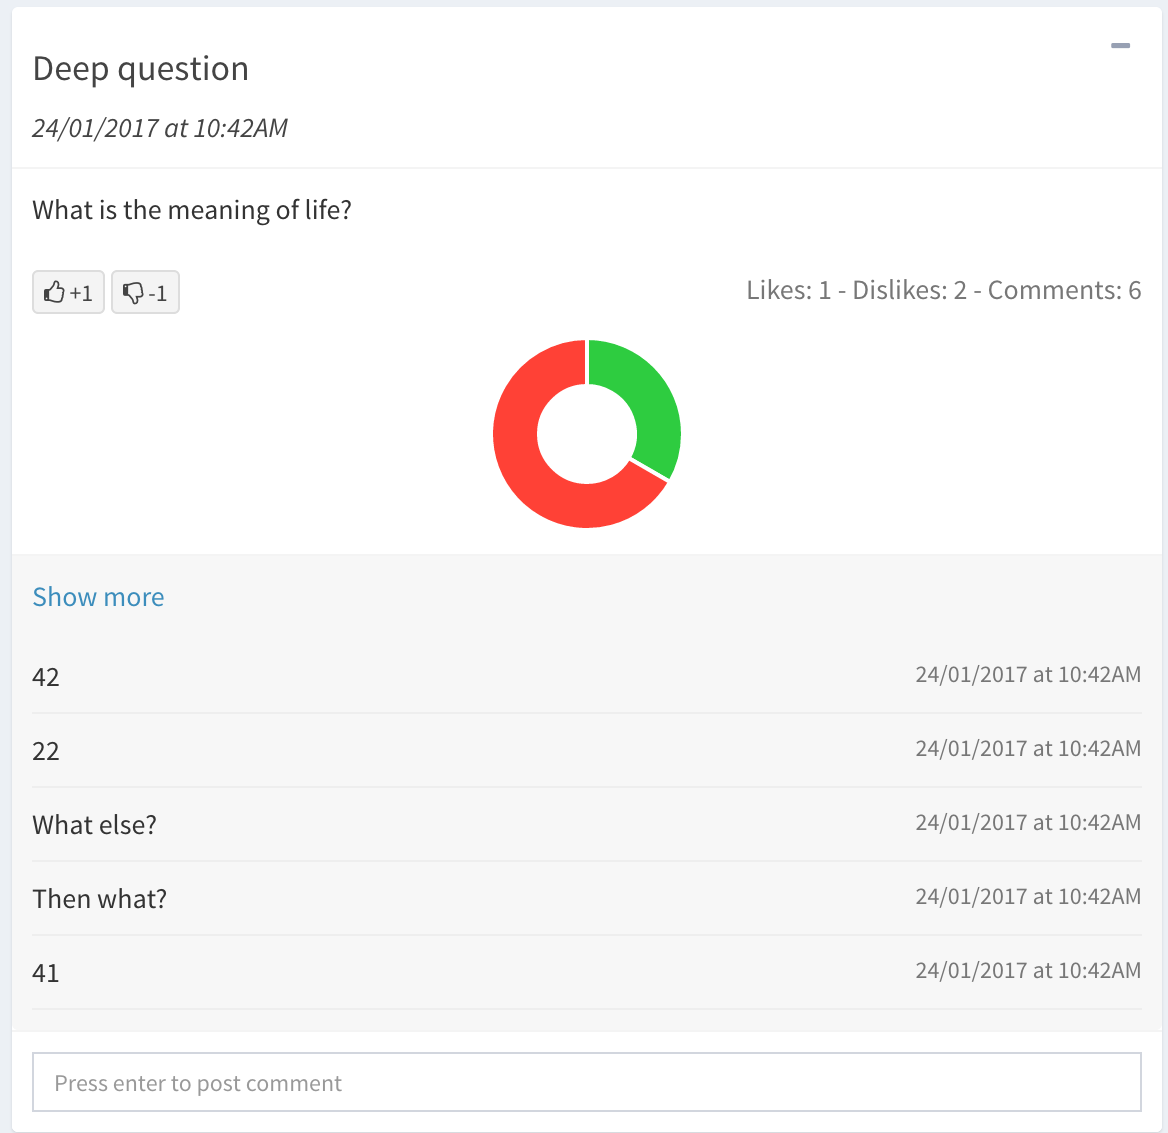
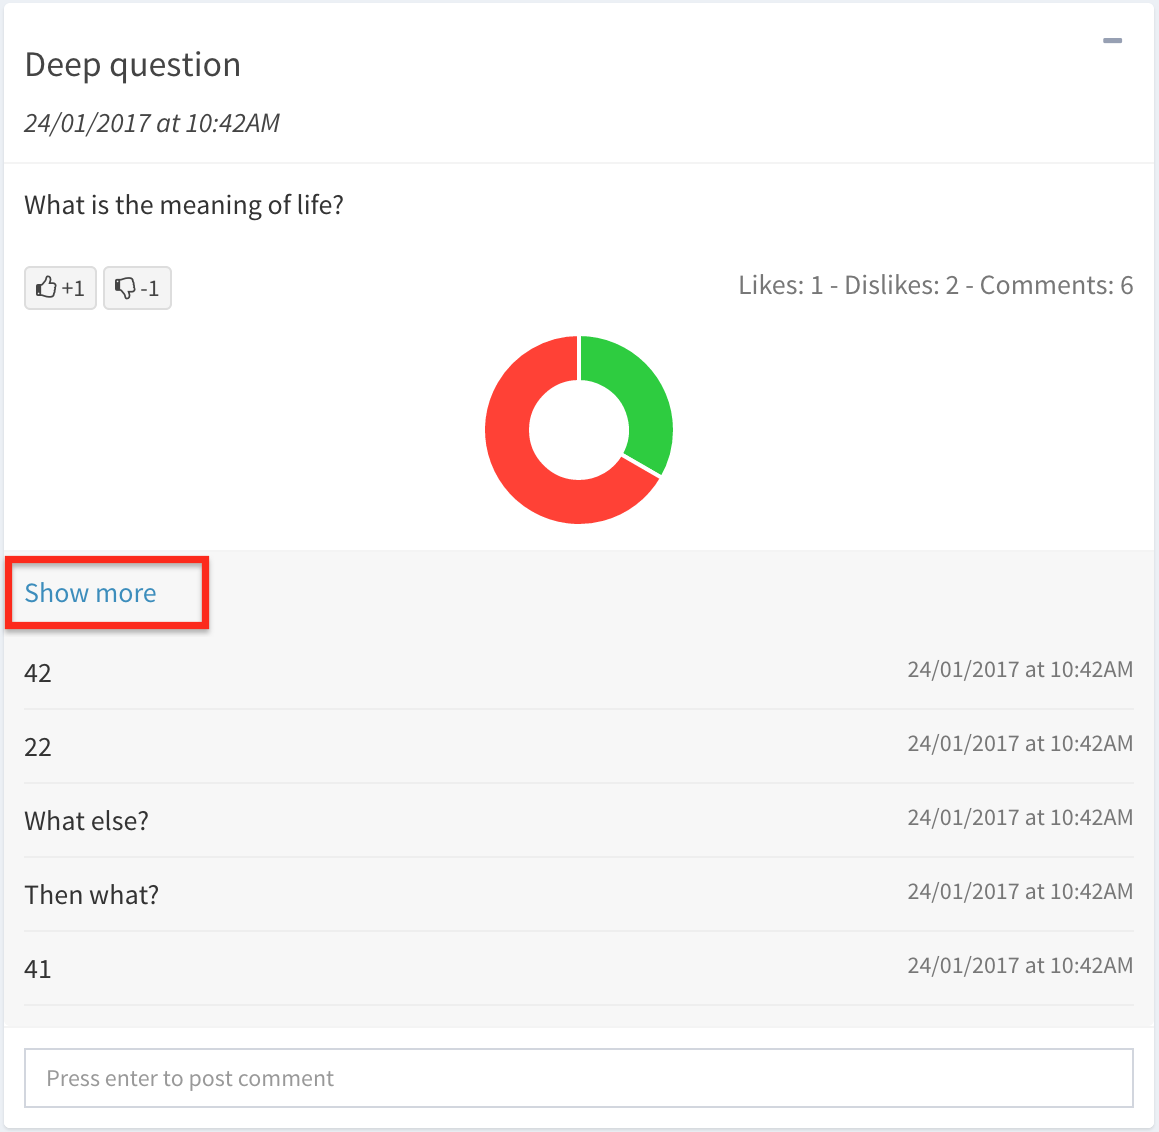
readme fix

diff --git a/README.md b/README.md
@@ -118,15 +118,15 @@ The right part of the page shows every questions created in the Room so far.
 
 ### Feature 4 : Poll usage
 
-Inside a Room, each question is diplayed and users can comment, upvote or downvote each question using the appropriate buttons. As soon as the first Like/Dislike has been submitted, a pie chart appears under the question to show the proportion of Likes/Dislikes. 
+Inside a Room, each question is diplayed and users can comment, upvote or downvote each question using the appropriate buttons. As soon as the first Like/Dislike has been submitted, a pie chart appears under the question to show the proportion of Likes/Dislikes. If the number of submitted comment it greater than five, the extra comments are hidden and can be displayed using the **Show More** link.
 
-![Preview Question](images/poll_usage.png)
+![Preview Question](images/poll_usage.png =250x)
 
 ### Feature 5 : Poll administration
 
 When an user creates a room, he is the administrator of that room and is allowed to delete each question/comment by clicking on the red cross a the top left of it.
 
-![Preview Question](images/admin.png)
+![Preview Question](images/admin.png =250x)
 
 ### Feature 6 : User's profile page
 
